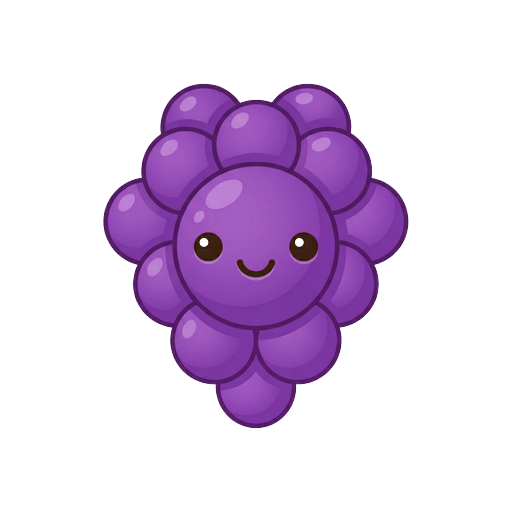
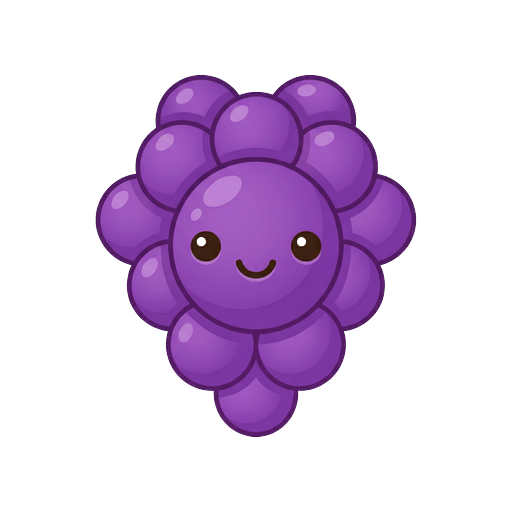
fix(cascade): clip grapes disc to physics boundary
The 40px crop padding caused the grape background disc to render 5%
outside the physics radius. Tighten to 0px padding so spriteScale=1.001
and the disc sits exactly at the physics circle edge (clipR 1.94x -> 1.42x).

Changed region(s): [[0.1875, 0.125, 0.8125, 0.875], [0.4688, 0.5, 0.5625, 0.5625]]

diff --git a/frontend/src/theme/fruitSets.ts b/frontend/src/theme/fruitSets.ts
@@ -213,7 +213,7 @@ export const FRUIT_SETS: Record<string, FruitSet> = {
         nameKey: "grapes", // PNG filename is grapes.png, not grape.png
         icon: FRUIT_ICONS.grape,
         bakedIcon: FRUIT_BAKED.grape,
-        bakedClipR: 1.488527,
+        bakedClipR: 1.416466,
         emoji: "🍇",
         color: "#7c3aed",
         radius: RADII[3],
